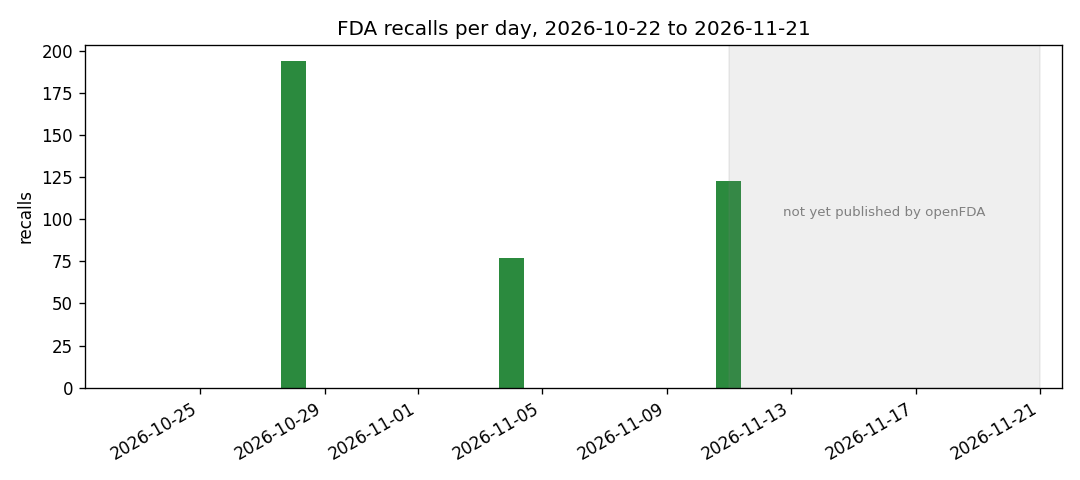
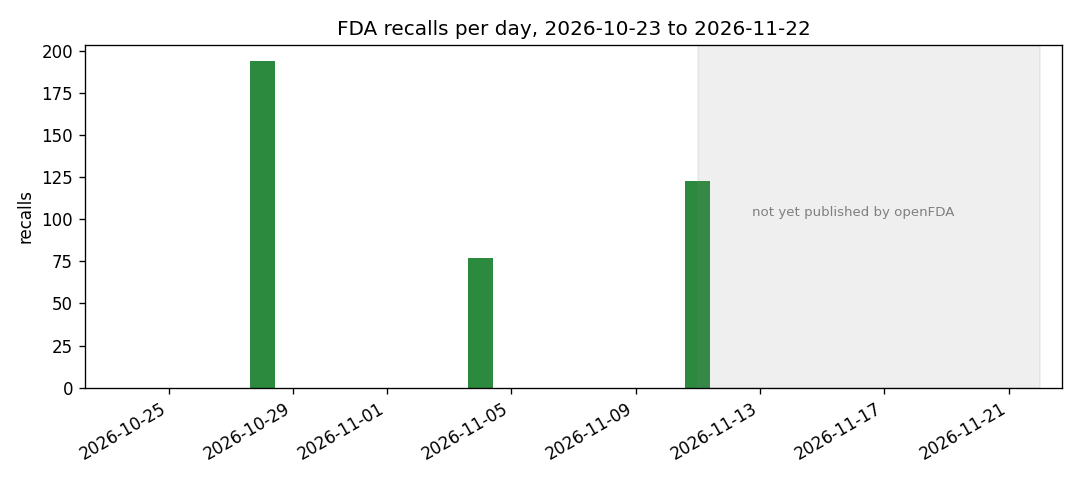
Add open >90 days column to age of open recalls; refresh data

diff --git a/tests/test_analyze.py b/tests/test_analyze.py
@@ -322,8 +322,8 @@ def test_open_recall_age_filters_and_orders():
             r("Weird", "20261120")]
     out = open_recall_age(recs, today)
     assert [o["classification"] for o in out] == ["Class I", "Class II", "Weird"]
-    assert out[0] == {"classification": "Class I", "open": 1, "median_age_days": 1, "oldest_days": 1}
-    assert out[1] == {"classification": "Class II", "open": 2, "median_age_days": 15.5, "oldest_days": 21}
+    assert out[0] == {"classification": "Class I", "open": 1, "median_age_days": 1, "oldest_days": 1, "long_open": 0}
+    assert out[1] == {"classification": "Class II", "open": 2, "median_age_days": 15.5, "oldest_days": 21, "long_open": 0}
     assert out[2]["median_age_days"] == 0           # initiated today: age 0 is valid
     assert open_recall_age([], today) == []
 
@@ -420,3 +420,15 @@ def test_source_notes_section_renders_only_with_records():
         "report_before_initiation": 0, "missing_classification": 0})
     assert "the 394 recalls with a report date in the rolling window 2026-11-01 to 2026-11-18" in scoped
     assert "462 recalls keyed by recall_number" in scoped and "2 of the window recalls have no recall_number" in scoped
+
+
+def test_open_recall_age_counts_long_open_strictly_over_threshold():
+    import datetime as dt
+    from recallradar.analyze import open_recall_age
+    today = dt.date(2026, 11, 20)
+    def r(days):
+        return {"classification": "Class II", "status": "Ongoing",
+                "recall_initiation_date": (today - dt.timedelta(days=days)).strftime("%Y%m%d")}
+    out = open_recall_age([r(89), r(90), r(91), r(200)], today)
+    assert out[0]["long_open"] == 2                      # 91 and 200; exactly 90 is not over
+    assert open_recall_age([r(10), r(20)], today, long_open_days=15)[0]["long_open"] == 1

diff --git a/src/recallradar/analyze.py b/src/recallradar/analyze.py
@@ -263,9 +263,10 @@ def top_firms_by_product(records: list[dict], n: int = 3) -> dict[str, list[tupl
             for area, firms in areas.items()}
 
 
-def open_recall_age(records: list[dict], today: dt.date) -> list[dict]:
+def open_recall_age(records: list[dict], today: dt.date, long_open_days: int = 90) -> list[dict]:
     """Age in days since initiation of still-open recalls (status Ongoing),
-    per classification: count, median and oldest. Records missing an
+    per classification: count, median, oldest and how many are open longer than
+    `long_open_days` (strictly greater). Records missing an
     initiation date, with an unparseable one, or dated after `today` are
     skipped. Classes in Class I, II, III order, then others by name."""
     ages: dict[str, list[int]] = {}
@@ -284,7 +285,8 @@ def open_recall_age(records: list[dict], today: dt.date) -> list[dict]:
         a = sorted(ages[cls])
         mid = len(a) // 2
         median = a[mid] if len(a) % 2 else (a[mid - 1] + a[mid]) / 2
-        out.append({"classification": cls, "open": len(a), "median_age_days": median, "oldest_days": a[-1]})
+        out.append({"classification": cls, "open": len(a), "median_age_days": median, "oldest_days": a[-1],
+                    "long_open": sum(1 for x in a if x > long_open_days)})
     return out
 
 

diff --git a/src/recallradar/report.py b/src/recallradar/report.py
@@ -136,9 +136,10 @@ def render_markdown(summary: dict, spotlight: list[dict],
     if open_ages:
         lines += ["", "## Age of open recalls", "",
                   "Days since initiation for recalls still marked Ongoing.", "",
-                  "| Class | Open | Median age (days) | Oldest (days) |", "| --- | ---: | ---: | ---: |"]
+                  "| Class | Open | Median age (days) | Oldest (days) | Open > 90 days |",
+                  "| --- | ---: | ---: | ---: | ---: |"]
         for o in open_ages:
-            lines.append(f"| {o['classification']} | {o['open']} | {o['median_age_days']:g} | {o['oldest_days']} |")
+            lines.append(f"| {o['classification']} | {o['open']} | {o['median_age_days']:g} | {o['oldest_days']} | {o.get('long_open', 0)} |")
     if month_themes and month_themes.get("months"):
         cols = month_themes["themes"]
         lines += ["", "## Reason themes by month", "",

diff --git a/reports/daily_report.md b/reports/daily_report.md
@@ -1,10 +1,10 @@
 # FDA Recall Radar - daily report
 
-Window: 2026-10-22 to 2026-11-21 (by report date). openFDA last_updated by endpoint: device 2026-11-11, drug 2026-11-11, food 2026-11-11. Generated 2026-11-21 20:06 UTC.
+Window: 2026-10-23 to 2026-11-22 (by report date). openFDA last_updated by endpoint: device 2026-11-11, drug 2026-11-11, food 2026-11-11. Generated 2026-11-22 12:08 UTC.
 
 **394 recalls** across 3 active days.
 
-> **Stale upstream data:** openFDA has not published for over 7 days (device 10 days, drug 10 days, food 10 days). Recent days may be missing here until it does.
+> **Stale upstream data:** openFDA has not published for over 7 days (device 11 days, drug 11 days, food 11 days). Recent days may be missing here until it does.
 
 ## By severity
 
@@ -112,12 +112,12 @@ Keyword grouping of the free-text reason (illustrative heuristic, not an FDA tax
 
 Days since initiation for recalls still marked Ongoing.
 
-| Class | Open | Median age (days) | Oldest (days) |
-| --- | ---: | ---: | ---: |
-| Class I | 58 | 58 | 269 |
-| Class II | 298 | 65 | 927 |
-| Class III | 35 | 89 | 89 |
-| Not Yet Classified | 2 | 113 | 197 |
+| Class | Open | Median age (days) | Oldest (days) | Open > 90 days |
+| --- | ---: | ---: | ---: | ---: |
+| Class I | 58 | 59 | 270 | 4 |
+| Class II | 298 | 66 | 928 | 13 |
+| Class III | 35 | 90 | 90 | 0 |
+| Not Yet Classified | 2 | 114 | 198 | 1 |
 
 ## Reason themes by month
 
@@ -139,7 +139,7 @@ Share of recalls classed as Class I (most serious) by report month. Recent month
 
 ## Source data notes
 
-Scope: the 394 recalls with a report date in the rolling window 2026-10-22 to 2026-11-21, not the whole archive (462 recalls keyed by recall_number, which keeps recalls after they leave the window); 2 of the window recalls have no recall_number and are not in the archive. Of the 394: 0 lack an initiation date, 0 have an unparseable date, 0 are reported before their initiation date, 0 lack a classification. Lag and age sections skip those records.
+Scope: the 394 recalls with a report date in the rolling window 2026-10-23 to 2026-11-22, not the whole archive (462 recalls keyed by recall_number, which keeps recalls after they leave the window); 2 of the window recalls have no recall_number and are not in the archive. Of the 394: 0 lack an initiation date, 0 have an unparseable date, 0 are reported before their initiation date, 0 lack a classification. Lag and age sections skip those records.
 
 _Window total includes 2 recalls with no recall_number; they are reported here but cannot be keyed into the archive._
 
